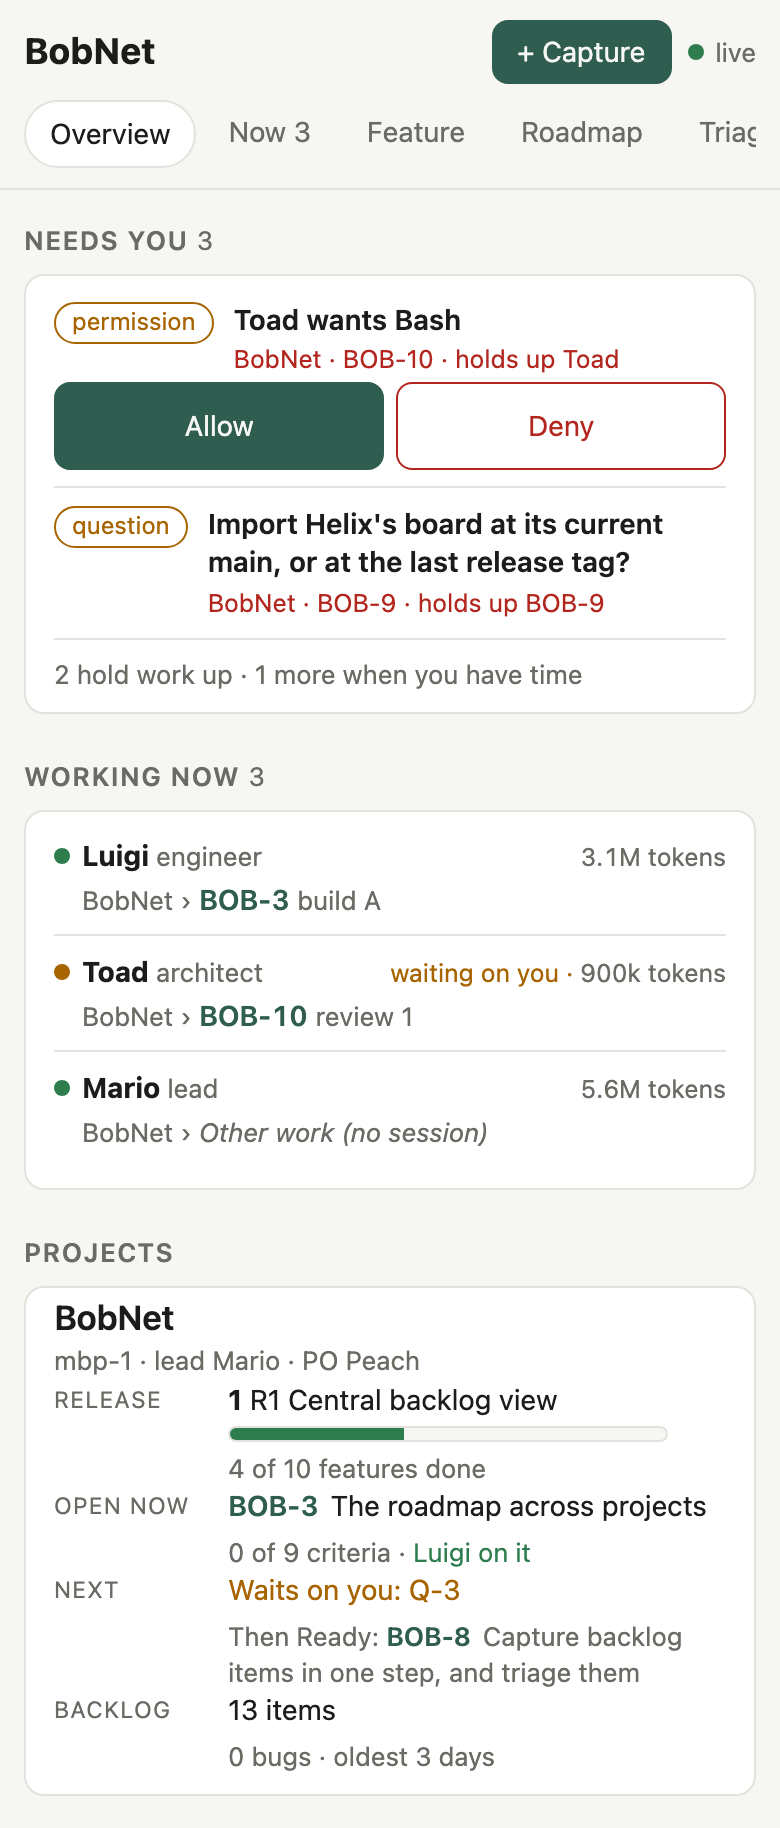
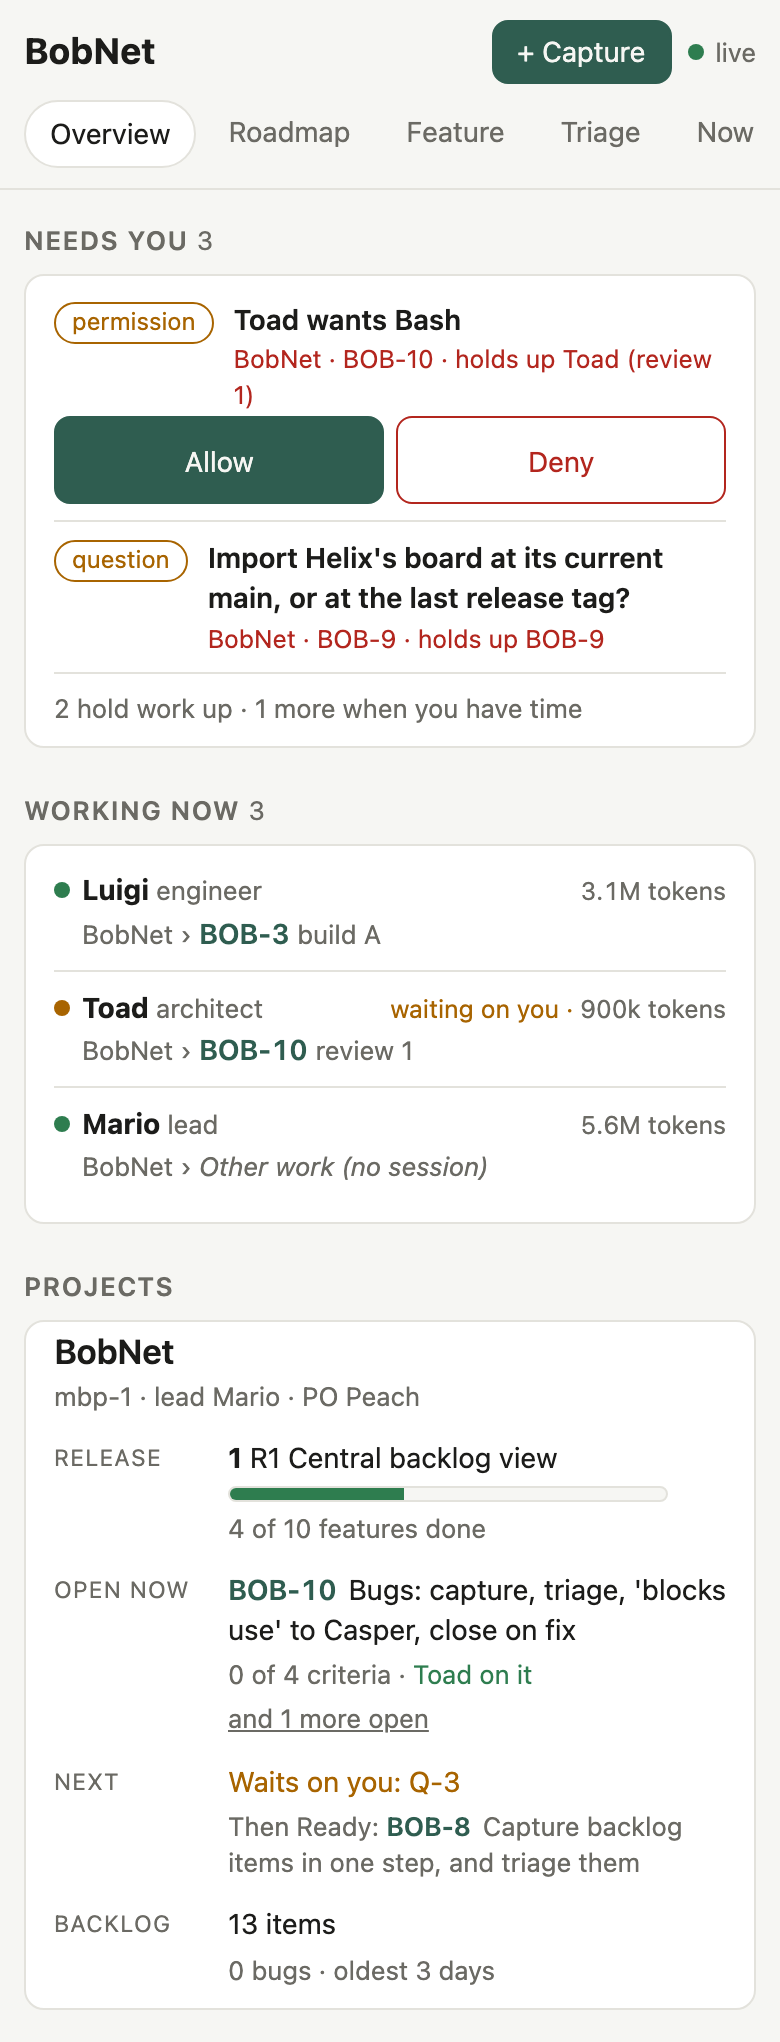
BOB-3 follow-ups (Daisy, w_d38c1154, spec 44bf8f4; Toad, w_bd150a53, findings 1, 3, 5). Tabs: Overview · Roadmap · Feature · Triage · Now · Usage · Sessions. Tablet project row: a 12 px row gap (the card's gap: 0 had overridden it). Holds up: a session named as kind and label, never repeating the ki

diff --git a/packages/broker/test-ui/dashboard.test.ts b/packages/broker/test-ui/dashboard.test.ts
@@ -1020,7 +1020,10 @@ describe("the overview: needs you, working now, projects (BOB-3 #7)", () => {
     asked_by: "Mario@mbp-1", since: iso(60), blocking, ...over,
   });
   const waits = [
-    wait("Q-4", "question", "Which roadmap order wins?", true, { holds: { items: ["BOB-3.1"], sessions: [] }, waiting_sessions: [{ feature: "BOB-3", kind: "build", label: "A" }] }),
+    wait("Q-4", "question", "Which roadmap order wins?", true, {
+      holds: { items: ["BOB-3", "BOB-3.1"], sessions: [{ feature: "BOB-9", kind: "build", label: "B" }] }, waiting_sessions: [{ feature: "BOB-3", kind: "build", label: "A" }],
+    }),
+    wait("Q-5", "question", "Ship the fixes?", true, { waiting_sessions: [{ feature: "BOB-3", kind: "build", label: "Fixes" }, { feature: "BOB-3", kind: "review", label: "review 2" }] }),
     wait("A-2", "action", "Add the token", false, { feature: null }),
     wait("BOB-31", "bug", "Login fails on a phone", true),
   ];
@@ -1044,15 +1047,19 @@ describe("the overview: needs you, working now, projects (BOB-3 #7)", () => {
     await answerOverview();
     expect(document.querySelector('#tabs a[aria-current]')!.getAttribute("href")).toBe("#overview");
     // The waits and the permission: four, the action not holding work up.
-    expect($("needs-count").textContent).toBe("4");
+    expect($("needs-count").textContent).toBe("5");
     const lines = [...$("needs").querySelectorAll("li")];
-    expect(lines.map((l) => l.querySelector(".badge")!.textContent)).toEqual(["permission", "question", "bug · blocks use"]);
+    expect(lines.map((l) => l.querySelector(".badge")!.textContent)).toEqual(["permission", "question", "question", "bug · blocks use"]);
     expect(lines[0]!.textContent).toContain("records-agent wants Bash");
     expect([...lines[0]!.querySelectorAll("button")].map((b) => b.textContent)).toEqual(["Allow", "Deny"]);
     expect(lines[1]!.querySelector(".l-t")!.textContent).toBe("Which roadmap order wins?");
-    expect(lines[1]!.querySelector(".l-m")!.textContent).toBe("BobNet · BOB-3 · holds up BOB-3.1, BOB-3 build A");
-    expect(lines[2]!.querySelector(".l-m")!.textContent).toBe("BobNet · BOB-3 · blocks use");
-    expect(view().querySelector(".ov-needs .more")!.textContent).toBe("3 hold work up · 1 more when you have time");
+    // Holds-up wording (spec, BOB-3 gap 5): its own feature's session by who is in it, another's with its feature,
+    // BOB-3 counted once with its session, two named then "+N more"; a session with nobody in it by kind and label.
+    expect(lines[0]!.querySelector(".l-m")!.textContent).toBe("helix · LAND-41 · holds up records-agent (build 3)");
+    expect(lines[1]!.querySelector(".l-m")!.textContent).toBe("BobNet · BOB-3 · holds up Luigi (build A), BOB-9 build B +1 more");
+    expect(lines[2]!.querySelector(".l-m")!.textContent).toBe("BobNet · BOB-3 · holds up Fixes, review 2");
+    expect(lines[3]!.querySelector(".l-m")!.textContent).toBe("BobNet · BOB-3 · blocks use");
+    expect(view().querySelector(".ov-needs .more")!.textContent).toBe("4 hold work up · 1 more when you have time");
     // No link to a Waits tab that isn't there yet.
     expect(view().querySelector('.ov-needs a[href="#waits"]')).toBeNull();
   });
@@ -1103,6 +1110,16 @@ describe("the overview: needs you, working now, projects (BOB-3 #7)", () => {
     const cells = [...view().querySelectorAll('.prow[data-project="bobnet"] .pc')].map((c) => c.textContent);
     expect(cells[2]).toBe("Open nowno feature open");
     expect(cells[3]).toBe("NextReady: BOB-9Move Helix's board");
+  });
+
+  it("hints that a question of Casper's is answered through the orchestrator, as Now did", async () => {
+    const snap = structuredClone(dashboard.laptops[0]!.snapshot);
+    snap.workers = [worker({ state: "waiting-approval" })] as never;
+    snap.pending = [{ id: "r_8", worker_id: "w_1", name: "records-agent", kind: "question", tool: "AskUserQuestion", tier: "human", created_at: iso(1), preview: "Which one?" }] as never;
+    FakeSocket.last.frame({ t: "report", laptop: "mbp-1", at: iso(0), snapshot: snap });
+    await settle();
+    const line = $("needs").querySelector("li")!;
+    expect(line.querySelector(".acts")!.textContent).toBe("Answer it through the orchestrator, or Deny");
   });
 
   it("opens the triage list on a release from the roadmap's counts line (BOB-3 #6)", async () => {

diff --git a/packages/broker/public/app.js b/packages/broker/public/app.js
@@ -778,7 +778,27 @@ function waitingText(w) {
 }
 
 const WAIT_KIND = { question: ["question", "question"], action: ["action", "action"], review_gate: ["review", "review gate"], bug: ["bug", "bug · blocks use"] };
-const sessionName = (ss) => `${ss.feature} ${ss.kind} ${ss.label}`;
+/** A session by its kind and label ("build A", "review 1"), never repeating the kind; "Fixes" is a build label and stays "Fixes" (spec, BOB-3 gap 5). */
+const stepName = (ss) => (ss.label === "Fixes" || ss.label.toLowerCase().startsWith(`${ss.kind} `) ? ss.label : `${ss.kind} ${ss.label}`);
+/** The agents in a board session, from their declared sessions. */
+const inSession = (key, ss) => running().filter((w) => w.project === key && w.session === `${ss.feature} ${ss.kind} ${ss.label}`);
+/** Several names: at most two, then "+N more". */
+const upTo2 = (names) => (names.length > 2 ? `${names.slice(0, 2).join(", ")} +${names.length - 2} more` : names.join(", "));
+
+/** What a wait holds up, in words (spec, BOB-3 gap 5): a session of its own feature by who is in it, another's with its feature, then items; a feature and its own session count once. */
+function heldNames(w) {
+  const sessions = [...new Map([...w.holds.sessions, ...w.waiting_sessions].map((ss) => [`${ss.feature} ${ss.kind} ${ss.label}`, ss])).values()]
+    .sort((a, b) => (b.feature === w.feature) - (a.feature === w.feature));
+  const items = w.holds.items.filter((ref) => !sessions.some((ss) => ss.feature === ref));
+  return upTo2([
+    ...sessions.map((ss) => {
+      if (ss.feature !== w.feature) return `${ss.feature} ${stepName(ss)}`;
+      const who = inSession(w.project, ss);
+      return who.length ? `${who.map((x) => x.name).join(" and ")} (${stepName(ss)})` : stepName(ss);
+    }),
+    ...items,
+  ]);
+}
 
 function viewOverview() {
   if (svc.projects && !ov.rows && !ov.loading) loadOverview();
@@ -812,10 +832,9 @@ function viewOverview() {
 
 function waitLine(w) {
   const [st, label] = WAIT_KIND[w.kind];
-  const held = [...new Set([...w.holds.items, ...[...w.holds.sessions, ...w.waiting_sessions].map(sessionName)])];
   return h("li", { class: "hold" }, badge(st, label),
     h("span", { class: "l-t", title: w.text }, w.text),
-    h("span", { class: "l-m" }, `${projectName(w.project)}${w.feature ? ` · ${w.feature}` : ""} · ${w.kind === "bug" ? "blocks use" : `holds up ${held.join(", ")}`}`));
+    h("span", { class: "l-m" }, `${projectName(w.project)}${w.feature ? ` · ${w.feature}` : ""} · ${w.kind === "bug" ? "blocks use" : `holds up ${heldNames(w)}`}`));
 }
 
 function permissionLine(p) {
@@ -824,9 +843,9 @@ function permissionLine(p) {
   return h("li", { class: "hold can" }, badge("permission"),
     h("span", { class: "l-t", title: p.preview }, p.kind === "question" ? `${p.name} asks: ${p.preview}` : `${p.name} wants ${p.tool}`),
     h("span", { class: "acts" },
-      p.kind === "question" ? null : button("Allow", "primary", (b) => act(p.laptop, { kind: "answer", request: p.id, decision: "allow" }, b, `Allow ${p.name} to run ${p.tool}?\n\n${p.preview}`)),
+      p.kind === "question" ? h("span", { class: "muted hint" }, "Answer it through the orchestrator, or ") : button("Allow", "primary", (b) => act(p.laptop, { kind: "answer", request: p.id, decision: "allow" }, b, `Allow ${p.name} to run ${p.tool}?\n\n${p.preview}`)),
       button("Deny", "danger", (b) => act(p.laptop, { kind: "answer", request: p.id, decision: "deny" }, b))),
-    h("span", { class: "l-m" }, `${w ? projectName(w.project) : p.laptop}${ss ? ` · ${ss.feature}` : ""} · holds up ${p.name}`));
+    h("span", { class: "l-m" }, `${w ? projectName(w.project) : p.laptop}${ss ? ` · ${ss.feature}` : ""} · holds up ${p.name}${ss ? ` (${ss.label})` : ""}`));
 }
 
 function nowLine(w) {

diff --git a/packages/broker/public/style.css b/packages/broker/public/style.css
@@ -313,7 +313,8 @@ dialog .note.refused { color: var(--bad); font-size: 13px; }
 .ov-needs li.hold.can .l-m { grid-column: 2 / -1; }
 .ov-needs .l-t { color: var(--text); font-weight: 600; overflow: hidden; text-overflow: ellipsis; white-space: nowrap; }
 .ov-needs .l-m { color: var(--bad); }
-.ov-needs .acts { display: flex; gap: 6px; }
+.ov-needs .acts { display: flex; gap: 6px; align-items: center; }
+.ov-needs .acts .hint { font-size: 12.5px; }
 .ov-needs .acts button { min-height: 32px; padding: 2px 10px; }
 .ov .more { margin: 0; font-size: 13px; color: var(--muted); padding-top: 8px; border-top: 1px solid var(--line); }
 .now-list li { grid-template-columns: minmax(0, 1fr) auto; align-items: baseline; }
@@ -332,7 +333,7 @@ dialog .note.refused { color: var(--bad); font-size: 13px; }
 .prow a.v:hover { text-decoration: underline; }
 .prow .meter { max-width: 220px; }
 .clamp { display: -webkit-box; -webkit-line-clamp: 2; -webkit-box-orient: vertical; overflow: hidden; }
-@media (max-width: 1099px) { .prow { grid-template-columns: repeat(2, minmax(0, 1fr)); row-gap: 14px; } .prow .pname { grid-column: 1 / -1; grid-template-columns: auto 1fr; align-items: baseline; gap: 10px; } .prow .pc.legacy { grid-column: 1 / -1; } }
+@media (max-width: 1099px) { .prow { grid-template-columns: repeat(2, minmax(0, 1fr)); } .ov .prow { row-gap: 12px; } .prow .pname { grid-column: 1 / -1; grid-template-columns: auto 1fr; align-items: baseline; gap: 10px; } .prow .pc.legacy { grid-column: 1 / -1; } }
 @media (max-width: 520px) {
   .prow { grid-template-columns: minmax(0, 1fr); gap: 10px; }
   .prow .pname { grid-template-columns: 1fr; gap: 0; }

diff --git a/packages/broker/src/board/store.ts b/packages/broker/src/board/store.ts
@@ -406,11 +406,11 @@ export class BoardStore {
     };
   }
 
-  /** Backlog items not archived, matching `where`. */
+  /** Backlog items not archived, matching `where`; its bugs are the open ones, not Done. */
   private backlogCounts(where: string, ...args: SqlStorageValue[]): BacklogCounts {
     const c = this.sql
       .exec<{ items: number; bugs: number | null; oldest: string | null }>(
-        `SELECT count(*) AS items, sum(type = 'bug') AS bugs, min(created_at) AS oldest FROM items WHERE kind = 'backlog' AND archived_at IS NULL AND ${where}`,
+        `SELECT count(*) AS items, sum(type = 'bug' AND status <> 'Done') AS bugs, min(created_at) AS oldest FROM items WHERE kind = 'backlog' AND archived_at IS NULL AND ${where}`,
         ...args,
       )
       .one();

diff --git a/packages/broker/test/board.test.ts b/packages/broker/test/board.test.ts
@@ -1288,5 +1288,10 @@ describe("the views' reads: waits, overview, the roadmap's counts (ADR 0001 §7,
       { items: 0, bugs: 0, oldest: null },
       { items: 1, bugs: 1, oldest: expect.any(String) },
     ]);
+    // A Done bug is still a backlog item, but not an open bug.
+    await runInDurableObject(board(), (_, state) => {
+      state.storage.sql.exec("UPDATE items SET status = 'Done' WHERE title = 'Crash'");
+    });
+    expect((await ok(owner, { op: "overview", project: "helix" })).projects[0]!.backlog).toMatchObject({ items: 2, bugs: 0 });
   });
 });

diff --git a/packages/broker/public/index.html b/packages/broker/public/index.html
@@ -13,10 +13,10 @@
     <h1>BobNet</h1>
     <nav id="tabs">
       <a href="#overview">Overview</a>
-      <a href="#now">Now <span class="count" id="now-count"></span></a>
-      <a href="#feature">Feature</a>
       <a href="#roadmap">Roadmap</a>
+      <a href="#feature">Feature</a>
       <a href="#triage">Triage</a>
+      <a href="#now">Now <span class="count" id="now-count"></span></a>
       <a href="#usage">Usage</a>
       <a href="#sessions">Sessions</a>
     </nav>

diff --git a/packages/protocol/src/board.ts b/packages/protocol/src/board.ts
@@ -495,7 +495,7 @@ export interface OverviewRow {
   waits_on_you: string | null;
   backlog: BacklogCounts;
   /** Backlog items in no release (the roadmap's "Not in a release" counts line). */
-  no_release: BacklogCounts;
+  no_release?: BacklogCounts;
 }
 
 export interface ItemSummary {
